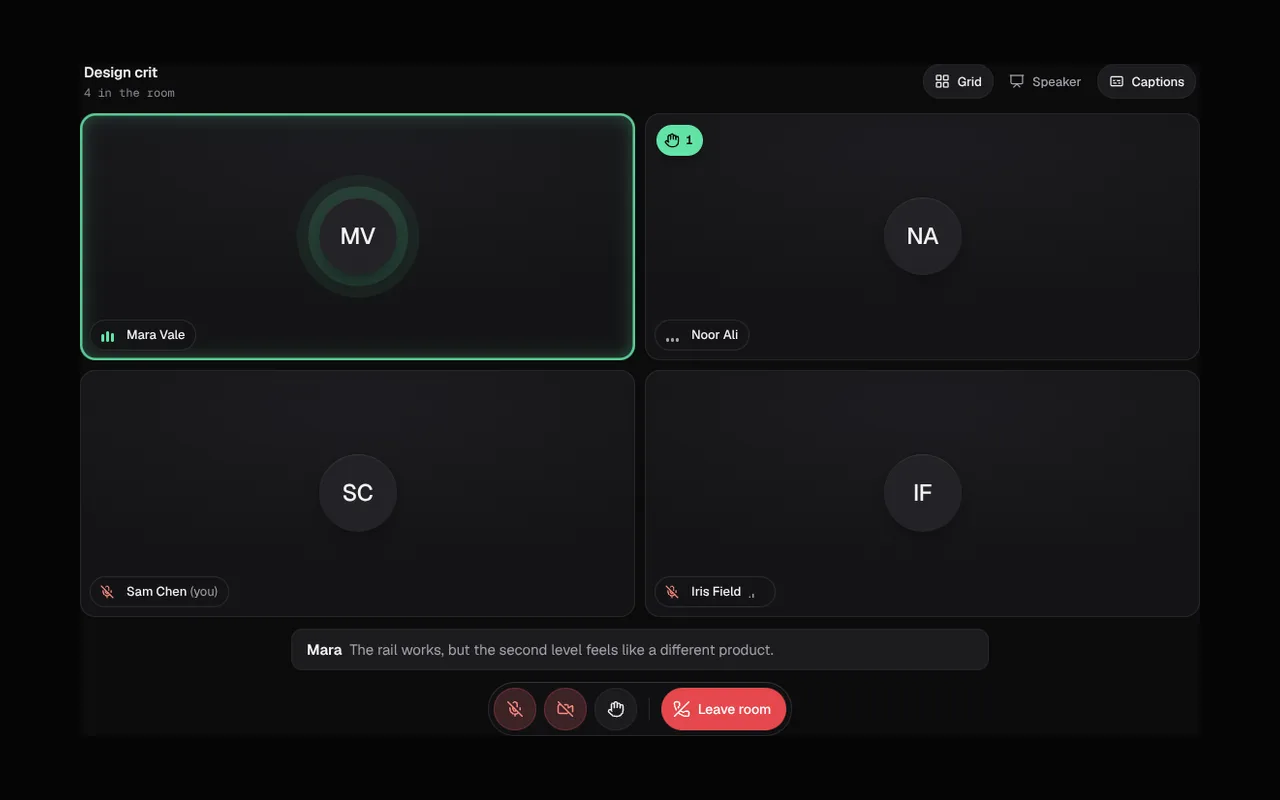
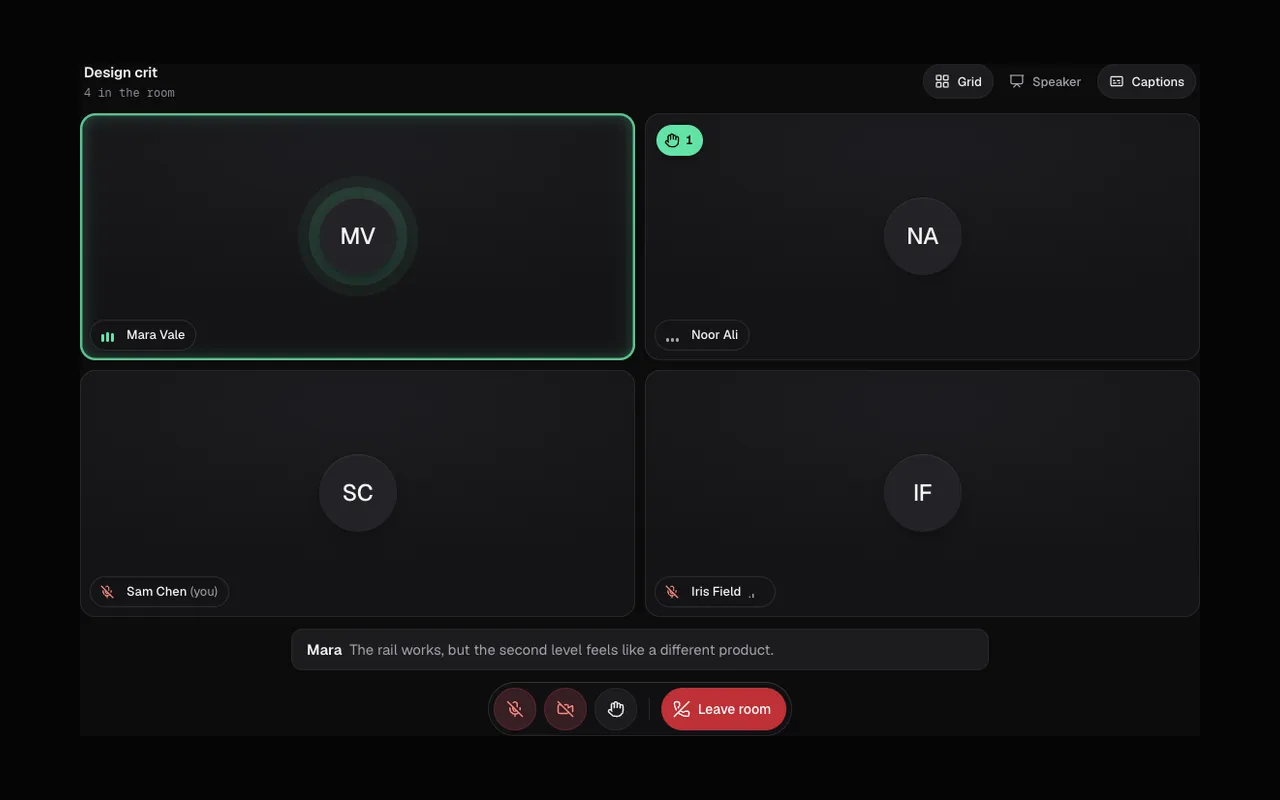
Guard painted call-control contrast and refresh its poster

Changed region(s): [[0.5, 0.8438, 0.625, 0.9375]]

diff --git a/docs/review/HANDOFF_TASKS.md b/docs/review/HANDOFF_TASKS.md
@@ -6,6 +6,8 @@ and how to know it's done. Pick any of them up independently. Background, briefs
 
 ## Follow-up progress (17–20 October 2026)
 
+- Meetings dependency follow-up (20 October): shared Call Controls now retain readable white Leave text in both themes and their actual 110% brightness hover. Original painted ratios were 3.91/3.29 in dark and 4.63/3.92 in light. The revised critical-action red measures 5.69:1 at rest and 4.87:1 on hover. The registered painted-colour regression, four state accessibility audits, full 58-layout/media suite, fresh official component audit and all ten reviewed audit captures pass. Its refreshed poster holds the existing reduced-motion first caption visibly; the rejected mid-transition poster is archived. Strict registry, root/all-eleven-block types and all 1,068 unit tests pass. The API is unchanged and its film was already queued. The full Meetings block review remains in progress.
+
 - Task 1 (20 October): Legal Workspace now has a reviewed 6.0s film showing typed DOC-404 evidence, the completion action and its settled Done stamp and receipt. The recorder now reaches the action inside its scrolling pane. Five fresh source framing captures match the reviewed references exactly; the changing pending frame is separately viewed. Full 820px workspace framing matches the paired opening poster. Maximum source gap is 29ms, changed-source delivery is 62.66ms and moving-frame p95 is 17.81ms, with no stalls and all guards retained. Both source repositories stay unchanged through the take. The complete film also plays in Chromium, with its decoded ending visually reviewed. The earlier rejected native movie remains archived. 120 listed films remain.
 
 - Task 1 targeting (20 October): the actual old recorder misses a completion action clipped by its scrolling panel while the action's rectangle remains inside the page viewport. The shared recorder resolver now scrolls clipping ancestors before measuring the native pointer target, matching live replay behavior. A registered native browser regression covers vertical, horizontal and nested panels, explicit offsets, retired duplicates, document scrolling and continuously moving or missing actions. Blocking scrolling rejects the same completion assertion. The original 2,500ms deadline, two stable frames and 0.5px tolerance remain intact. The original counterexample and both positive/negative captures are preserved. This establishes a targeting defect separately from the earlier native-frame delivery rejections; film counts stay unchanged.

diff --git a/docs/review/STATUS.md b/docs/review/STATUS.md
@@ -291,7 +291,7 @@ See [the handoff checkpoint](HANDOFF_TASKS.md#8-final-release-checks) for revisi
 | `bg-topographic-contours` | new | current |  |
 | `button-shimmer-track` | new | current |  |
 | `cards-prismatic-folder` | new | current |  |
-| `collab-call-stage` | new | current | call-stage-states passes |
+| `collab-call-stage` | new | current | Full 58-layout/media suite, four painted idle/hover contrast and accessibility checks, fresh official audit and all ten reviewed captures pass. Shared Leave text retains 5.69:1 at rest and 4.87:1 on hover in both themes. The resting-caption poster is refreshed; its film remains queued. |
 | `collab-message-list` | new | current |  |
 | `content-interactive-spec` | new | current |  |
 | `cta-project-brief` | new | current |  |
